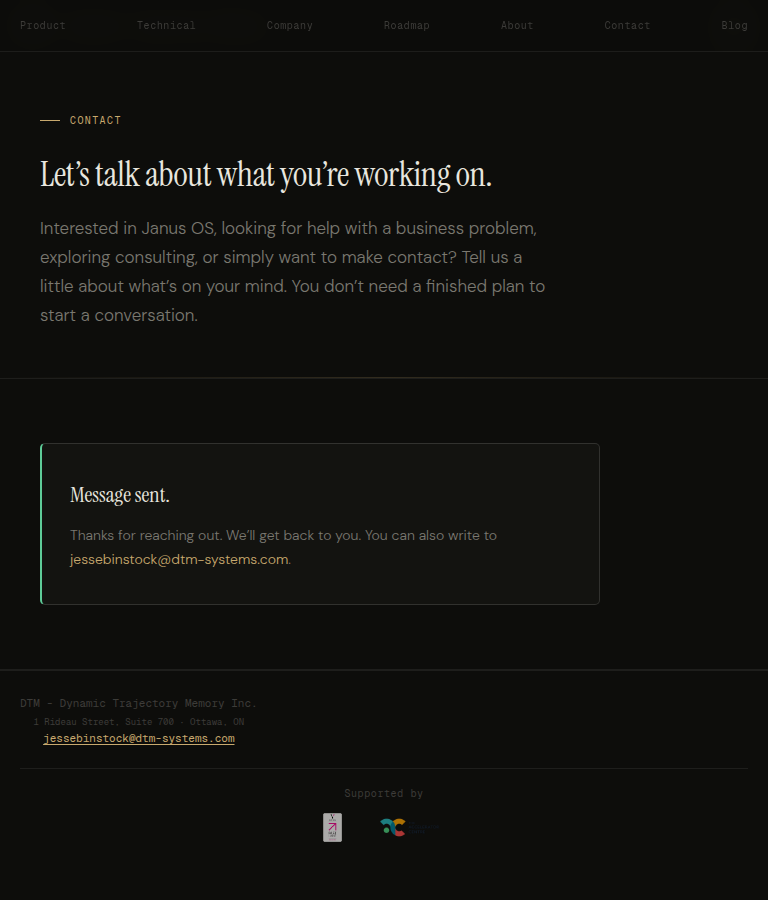
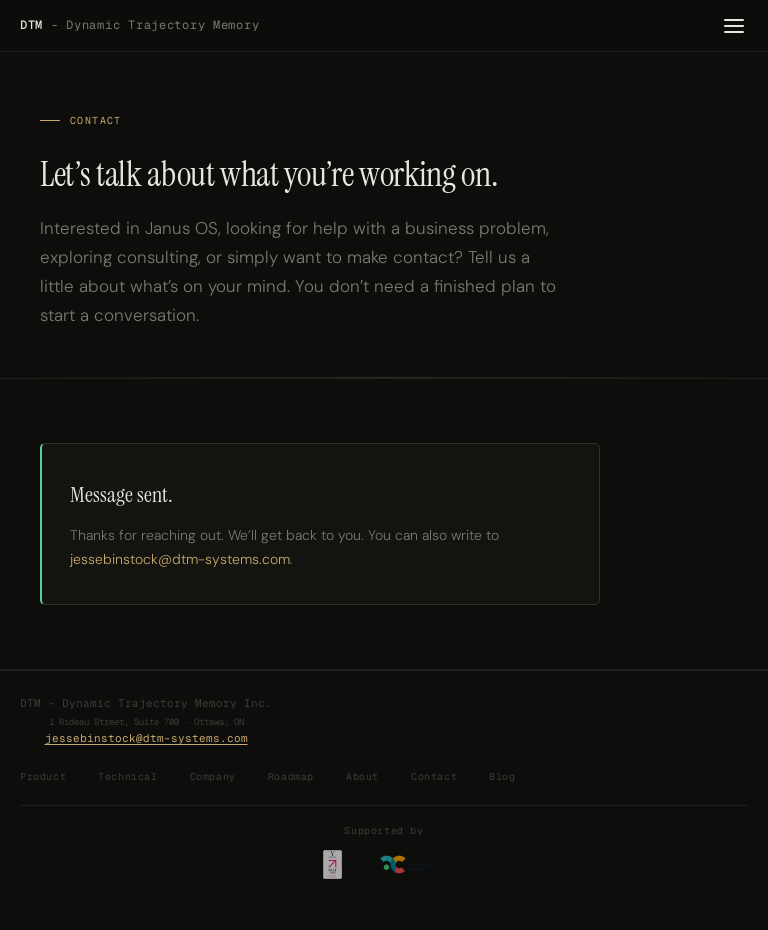
Fix header nav fixed positioning; re-shot slice 1 previews
Scope position:fixed to body > nav so footer-nav stays in document flow.
Re-capture full-page and nav chrome screenshots and refresh the preview report.

diff --git a/product.html b/product.html
@@ -35,7 +35,7 @@ body{background:var(--bg);color:var(--text);font-family:'DM Sans',sans-serif;fon
 .mono{font-family:'Geist Mono',monospace}
 .serif{font-family:'Instrument Serif',serif}
 
-nav{position:fixed;top:0;left:0;right:0;z-index:100;padding:0 48px;height:52px;display:flex;align-items:center;justify-content:space-between;border-bottom:0.5px solid var(--border);background:rgba(13,13,11,0.94);backdrop-filter:blur(12px)}
+body>nav{position:fixed;top:0;left:0;right:0;z-index:100;padding:0 48px;height:52px;display:flex;align-items:center;justify-content:space-between;border-bottom:0.5px solid var(--border);background:rgba(13,13,11,0.94);backdrop-filter:blur(12px)}
 .nav-left{font-family:'Geist Mono',monospace;font-size:12px;color:var(--muted);letter-spacing:0.06em}
 .nav-left strong{color:var(--text);font-weight:500}
 .nav-links{list-style:none;display:flex;gap:28px}

diff --git a/style.css b/style.css
@@ -53,7 +53,7 @@ body {
 
 /* ---------- Nav ---------- */
 
-nav {
+body > nav {
   position: fixed;
   top: 0;
   left: 0;
@@ -1548,7 +1548,7 @@ footer {
 
 @media (max-width: 768px) {
 
-  nav {
+  body > nav {
     padding: 0 20px;
   }
 

diff --git a/.github/website-v3-slice1-preview/website-v3-slice1-preview.md b/.github/website-v3-slice1-preview/website-v3-slice1-preview.md
@@ -2,7 +2,8 @@
 
 **Branch:** `cursor/website-v3-slice1-7348`  
 **Base:** `d8ae75da24cff1f7c4ad947de7291425c5e38a82` (`d8ae75d`)  
-**Content reviewed:** `523a8a550f4ce972585665b5684fc8db217ce75e` (`523a8a5`)  
+**Content reviewed (copy):** `523a8a550f4ce972585665b5684fc8db217ce75e` (`523a8a5`)  
+**Preview re-shot + nav CSS fix:** `a751763b949c520d58068b20f72350d92f73aca1` (`a751763`)
 **Live vs main (step A):** All seven pages matched `origin/main` at build start.
 
 This file and the PNGs beside it are internal review material. They are not part of the public site.
@@ -28,7 +29,7 @@ So these locations would go public after merge:
 cd /agent/repos/janus-site && python3 -m http.server 8080
 ```
 
-Screenshots below are full-page PNGs of that server at content `523a8a5`. Pixel width is the viewport width (375, 768, or 1280). `blog.html` did not change in slice 1 and is not shot.
+Full-page PNGs (`{page}_{width}.png`) and nav chrome PNGs (`{page}_{width}_header.png`, `{page}_{width}_footer.png`, and at width ≤768 `{page}_{width}_menu_open.png` after opening the hamburger) were captured from `python3 -m http.server 8080`. Pixel width is the viewport width (375, 768, or 1280). At 1280px the primary nav links are inline (no hamburger). `blog.html` did not change in slice 1 and is not shot.
 
 ## Screenshots
 
@@ -59,6 +60,25 @@ Screenshots below are full-page PNGs of that server at content `523a8a5`. Pixel 
 | technical.html | 768 | [technical_768.png](technical_768.png) |
 | technical.html | 1280 | [technical_1280.png](technical_1280.png) |
 
+### Nav chrome (example: home)
+
+| View | Width | Header | Open menu | Footer |
+|------|------:|--------|-----------|--------|
+| index.html | 375 | [index_375_header.png](index_375_header.png) | [index_375_menu_open.png](index_375_menu_open.png) | [index_375_footer.png](index_375_footer.png) |
+| index.html | 768 | [index_768_header.png](index_768_header.png) | [index_768_menu_open.png](index_768_menu_open.png) | [index_768_footer.png](index_768_footer.png) |
+| index.html | 1280 | [index_1280_header.png](index_1280_header.png) | — | [index_1280_footer.png](index_1280_footer.png) |
+
+Same suffix pattern for `about`, `company`, `contact`, `contact_sent1`, `product`, `roadmap`, and `technical` beside the full-page files above.
+
+## Outside-users copy (whole repo)
+
+Confirmed removed — no remaining matches:
+
+```text
+$ rg -i 'There are no outside users yet' /agent/repos/janus-site
+(exit 1, no files matched)
+```
+
 ## Automated checks (local)
 
 Checked the seven pages plus `blog.html` where noted. Contact address text is omitted from this file. The HTML still contains the single site mailto.
@@ -79,10 +99,11 @@ Checked the seven pages plus `blog.html` where noted. Contact address text is om
 | Empty required fields do not submit (`checkValidity` is false; the submit event does not fire) | Pass |
 | `/contact.html?sent=1` shows "Message sent." and the thanks line; the form is hidden | Pass |
 | Outside-users copy in `*.html` | Pass (none) |
-| Header link DOM click reaches product, technical, company, roadmap, about, and contact, each with a nav and a footer | Pass |
+| Header link DOM: product, technical, company, roadmap, about, and contact in top nav and footer | Pass |
+| Footer `nav.footer-nav` not `position: fixed` (computed style) | Pass |
 | Form POST during preview | Not performed |
 
-Rendering note, unchanged from base `d8ae75d`: the stylesheet rule `nav { position: fixed; top: 0; }` also matches `<nav class="footer-nav">`. The footer nav paints over the header, so the top bar in these screenshots is the footer link row, the header brand is covered, and that link row is not in the footer. A coordinate click on the header hits that overlay. The mobile menu button stays under it, so opening the hamburger did not reveal `.nav-links`.
+**Nav CSS (fixed):** Scoped fixed positioning to the top bar only: `body > nav { … }` in `style.css` (including the mobile padding rule) and `body>nav{…}` in `product.html` inline CSS. The bare `nav { position: fixed }` selector also matched `<nav class="footer-nav">`, which painted over the header and blocked the hamburger. Re-shot PNGs show the header brand, an open `.nav-links` panel at ≤768px, and footer links at the bottom of the page.
 
 ## Exact changed lines
 
@@ -212,12 +233,30 @@ Deleted, with no replacement line: the same regulated-industries hero paragraph 
 
 ### style.css (shared)
 
+Slice 1 (prior):
+
 ```
 1386: .footer-l a {
 1387:   color: var(--accent);
 1388:   text-decoration: underline;
 1389:   text-underline-offset: 2px;
 1390: }
+```
+
+Nav positioning fix on this branch (`body > nav` scopes fixed layout to the header; footer stays in flow):
+
+```
+56: body > nav {
+57:   position: fixed;
+...
+1551:   body > nav {
+1552:     padding: 0 20px;
+```
+
+### product.html (inline CSS duplicate)
+
+```
+38: body>nav{position:fixed;...}
 ```
 
 ## Flag for Jesse
